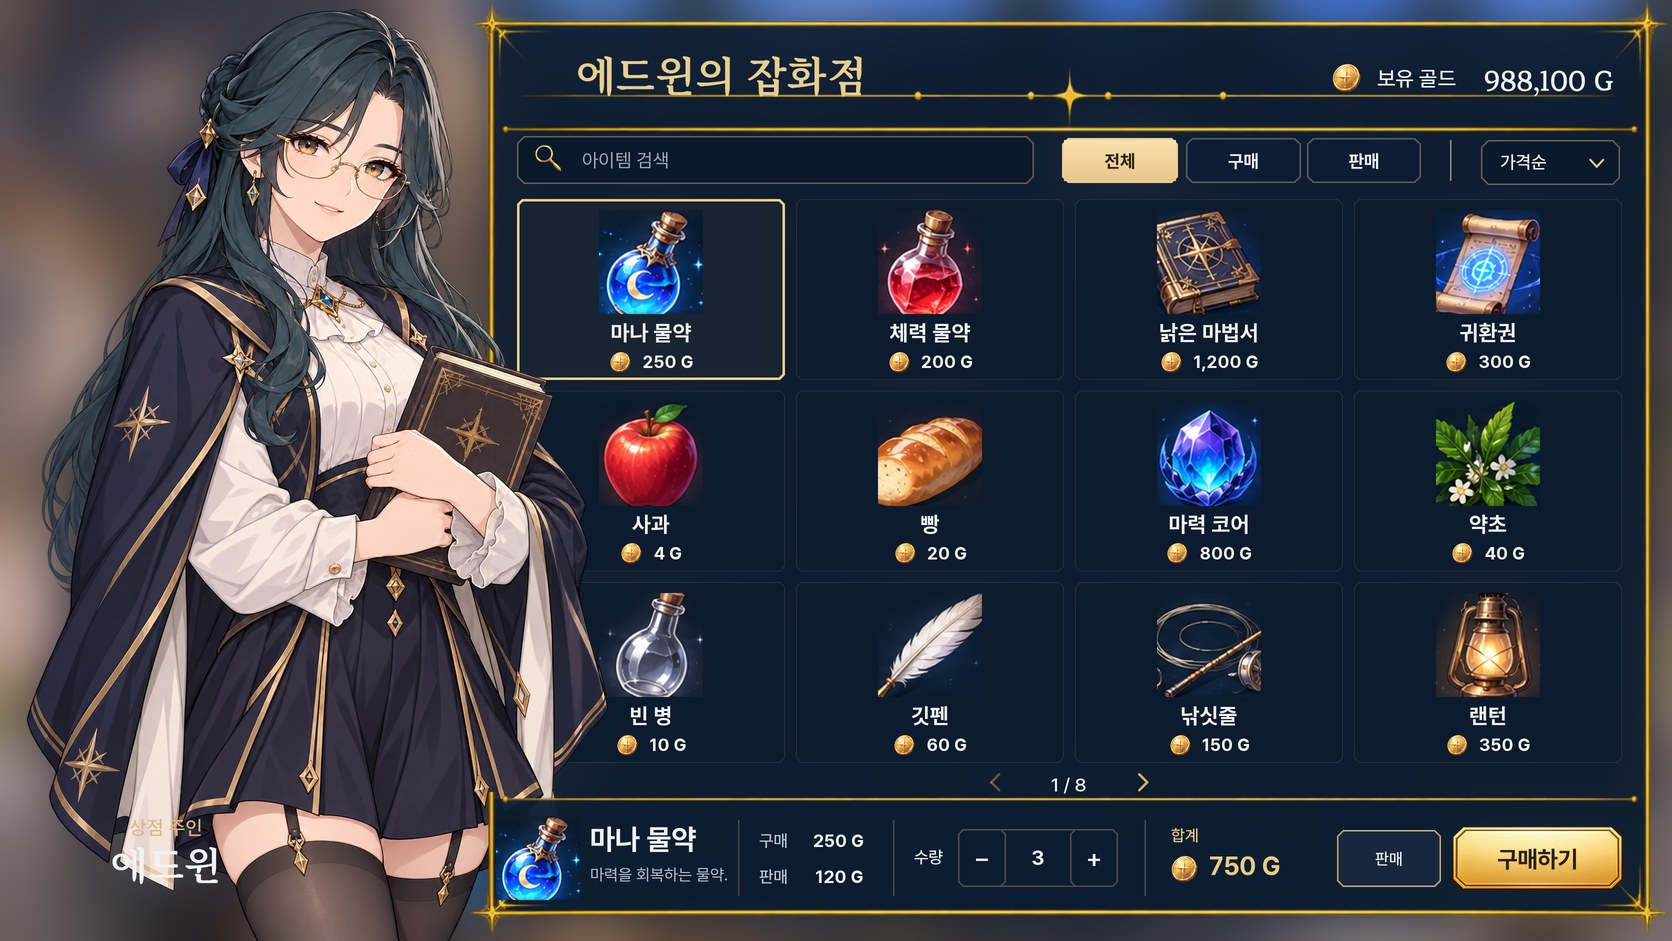
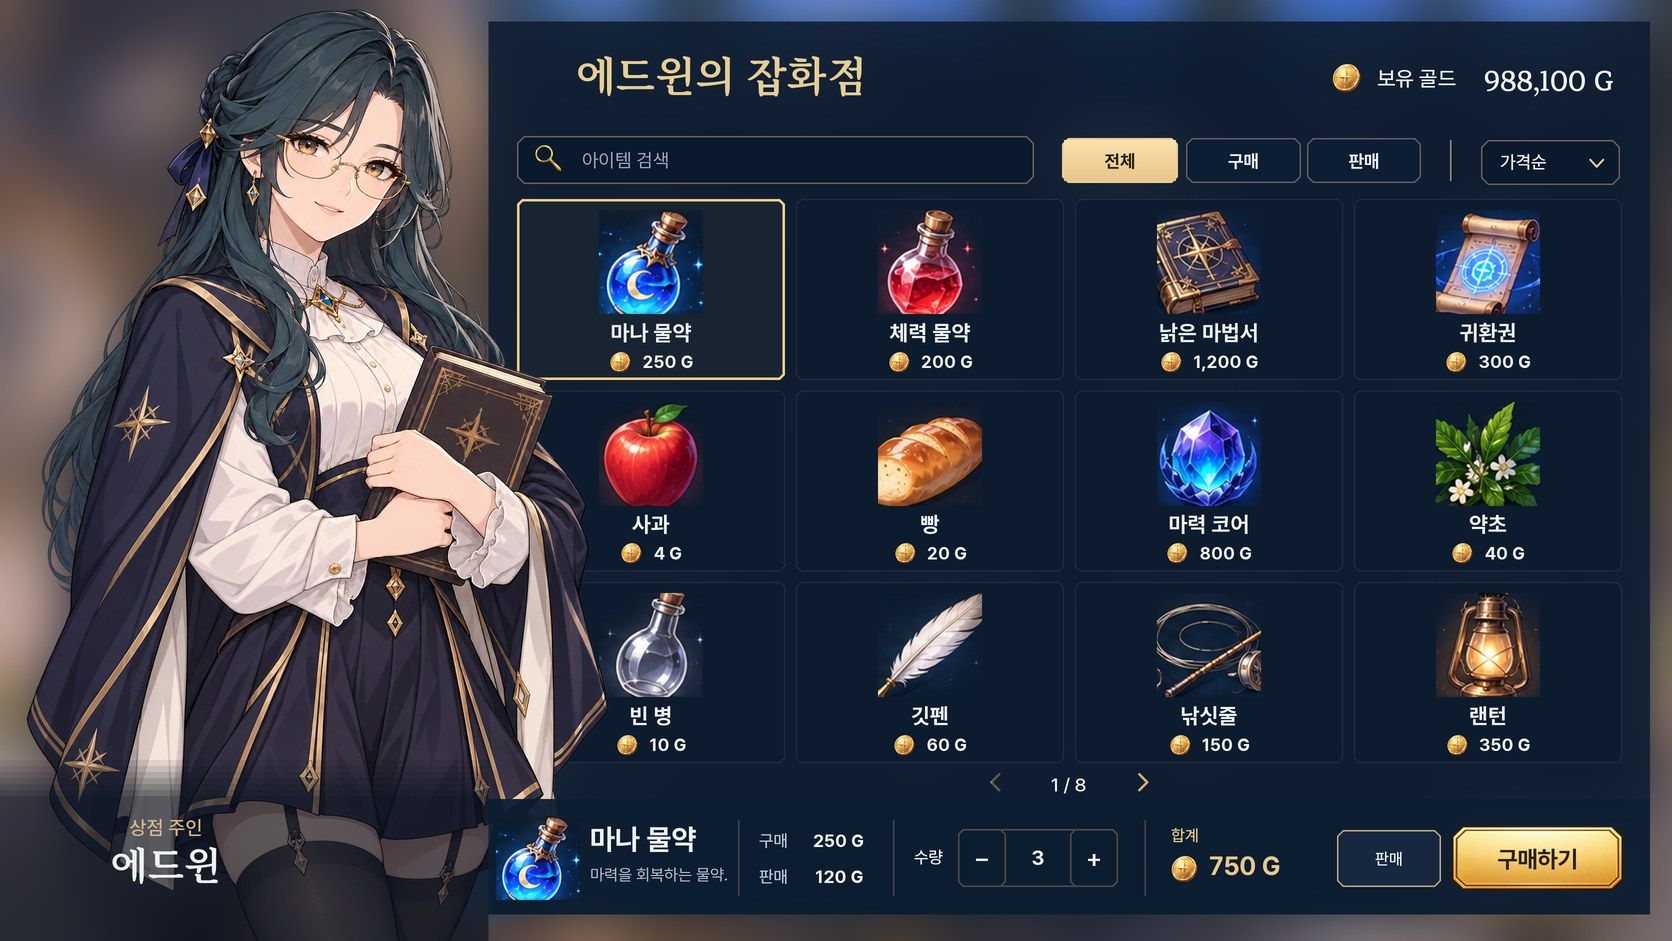
상점 v3 4차: shop_frame 노란 선 제거(프레임 PNG 미사용), 이름 뒤 반투명 어두운 띠 복구
Claude-Session: https://claude.ai/code/session_01C6Qo7jp46mG7XPa1vTVLAz

Changed region(s): [[0.0, 0.0, 0.9952, 1.0]]

diff --git a/magic-codex-fabric/src/main/java/school/magiccodex/client/ShopView.java b/magic-codex-fabric/src/main/java/school/magiccodex/client/ShopView.java
@@ -7,7 +7,7 @@ import java.util.List;
  * 1672x941). Every position, size and colour below was measured from reference.png; nothing is added.
  * Pure Java: ShopScreen supplies a Minecraft {@link Canvas}; the review preview supplies a Java2D one.
  *
- * Textures: shop_frame.png (stretched onto the mockup's panel lines) and button_primary.png. Only what the bundle
+ * Texture: button_primary.png only (shop_frame.png is not drawn, see draw()). Only what the bundle
  * README lists is geometry (card borders, selection line, arrows, search field, secondary buttons); no other
  * lines or ornaments are drawn. Order: panel, catalogue, the illustration (it overlaps the panel's left edge),
  * the frame's footer area over it, then the role / name text.
@@ -107,7 +107,7 @@ final class ShopView {
             SUM_LABEL_X = 1171, SUM_LABEL_CY = 835, SUM_COIN_X = 1182, SUM_X = 1209, SUM_CY = 866, SUM_MAX = 120,
             SWITCH_X = 1337, SWITCH_Y = 830, SWITCH_W = 104, SWITCH_H = 57, TRADE_X = 1452, TRADE_Y = 826, TRADE_W = 171, TRADE_H = 64;
     // illustration and the role / name label (mockup: portrait at x≈-3, full screen height)
-    static final float NPC_X = -3, NPC_H = 942, ROLE_CX = 166, ROLE_CY = 827.5f, NAME_CX = 166, NAME_CY = 865.5f;
+    static final float NAME_BAND_Y = 796, NPC_X = -3, NPC_H = 942, ROLE_CX = 166, ROLE_CY = 827.5f, NAME_CX = 166, NAME_CY = 865.5f;
 
     static float cardX(int slot) { return CARD_X0 + (slot % COLS) * CARD_PITCH_X; }
     static float cardY(int slot) { return CARD_Y0 + (slot / COLS) * CARD_PITCH_Y; }
@@ -186,9 +186,9 @@ final class ShopView {
     static boolean cardSells(Model m, Row r) { return m.tab() == Tab.SELL || !r.buys(); }
     // ---- frame ----------------------------------------------------------------------------------------------
     static void draw(Canvas c, Model m) {
-        // panel backing + frame (rows above the footer)
+        // panel backing only. shop_frame.png is not drawn: its thick yellow border / ornament lines do not match the
+        // approved mockup (owner 2026-10-24: remove them).
         c.fill(PANEL_L, PANEL_T, PANEL_R - PANEL_L, FOOT_T - PANEL_T, PANEL);
-        c.image(ROOT + "shop_frame.png", fx(0), fyTop(0), 1440 * KX, FRAME_SPLIT * KY_TOP, 0, 0, 1440, FRAME_SPLIT, 1440, 1092);
 
         // title · gold
         float labelW = c.width("보유 골드", 21.4f, Face.LABEL);
@@ -223,14 +223,13 @@ final class ShopView {
             c.portrait(NPC_X, Math.max(H, m.screenBottom()) - h, w, h);
         }
 
-        // footer area of the frame: fill inside the frame's own footer lines, then the frame's footer rows on top
+        // footer area (over the illustration, as in the mockup)
         c.fill(PANEL_L, FOOT_T, PANEL_R - PANEL_L, FOOT_B - FOOT_T, FOOTER);
-        float splitY = fyFoot(FRAME_SPLIT);
-        c.image(ROOT + "shop_frame.png", fx(0), splitY, 1440 * KX, (1092 - FRAME_SPLIT) * KY_FOOT,
-                0, FRAME_SPLIT, 1440, 1092 - FRAME_SPLIT, 1440, 1092);
         footer(c, m);
 
-        // role / name text (no drawn ornaments: only the supplied PNGs are decoration)
+        // role / name over a soft dark band (fades in from above) so it stays readable over the illustration
+        for (int i = 0; i < 6; i++) c.fill(0, NAME_BAND_Y - 36 + i * 6, PANEL_L, 6, ((i + 1) * 0x18) << 24 | 0x08111E);
+        c.fill(0, NAME_BAND_Y, PANEL_L, H - NAME_BAND_Y, 0xA808111E);
         fitted(c, m.role(), ROLE_CX, ROLE_CY, 19.5f, 220, ROLE, Face.LABEL, true);
         fitted(c, m.npcName(), NAME_CX, NAME_CY, 37.8f, 300, WHITE, Face.TITLE, true);
 

diff --git a/docs/handoff/CLAUDE_SHOP_V3_20261024.md b/docs/handoff/CLAUDE_SHOP_V3_20261024.md
@@ -137,3 +137,13 @@ The overlay check against reference.png is in `docs/handoff/img/shop/compare_v3.
   - search and sort fields
   - tabs, stepper, the 판매/구매 switch
   - thin dividers
+
+## 7. 4th pass — owner: remove the thick yellow lines; keep the dark band behind the name
+
+- **`shop_frame.png` is not drawn at all.**
+  - Its thick yellow border, the ornament line under the title and the header line do not match the approved mockup's thin lines. The owner asked to remove them.
+  - The panel and the footer are now only the navy fills: panel `0xE00E1D31`, footer `0xF20C1C30`.
+  - The PNG stays in the jar (v3/) but nothing loads it. If thin lines are wanted later, they need a new frame PNG that matches the mockup.
+- **The soft dark band behind the role / name is back**, as in the first pass and the mockup's darker lower-left:
+  - six 6px fade steps from y760, then `0xA808111E` from y796 down
+  - it spans x0..488.5
